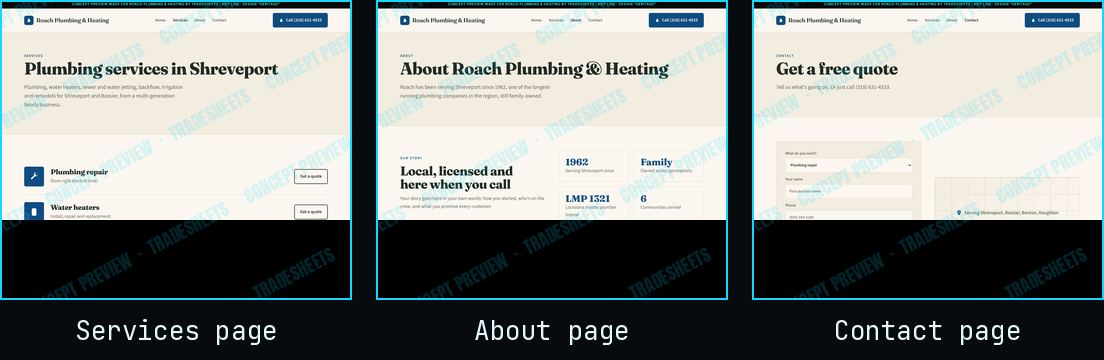
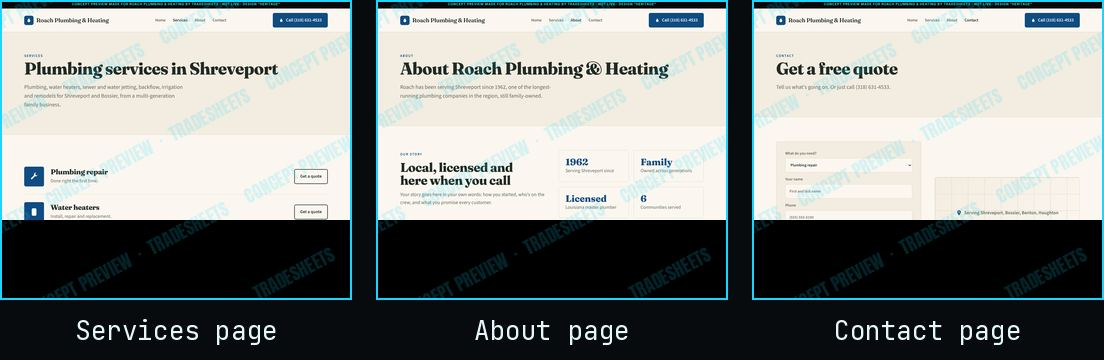
Update concept preview

Changed region(s): [[0.3388, 0.4278, 0.4928, 0.5806], [0.5236, 0.5194, 0.5543, 0.5806]]

diff --git a/roach-plumbing/index.html b/roach-plumbing/index.html
@@ -57,7 +57,7 @@ footer{background:var(--ink);color:var(--bg);padding-block:44px} footer .wrap{di
 @media(max-width:860px){.links{display:none}.hero .wrap,.grid3,.split,.reviews{grid-template-columns:1fr}.hero{padding-block:52px}.hero h1,.hero.type h1{font-size:42px}.head h2,.final h2,.pagehead h1{font-size:34px}
 .hero.block{background:var(--p)}.hero.frame .wrap{padding:28px}.facts{grid-template-columns:1fr}.svc-row{grid-template-columns:56px 1fr}.svc-row .btn{display:none}.art{max-width:260px}
 .mcall{display:flex;justify-content:center;position:fixed;left:12px;right:12px;bottom:12px;z-index:9;box-shadow:0 10px 30px rgba(0,0,0,.35)}body{padding-bottom:80px}}
-</style></head><body><div class="concept">Concept preview made for Roach Plumbing &amp; Heating by TradeSheets · not live · design "heritage"</div><header class="nav"><div class="wrap"><a class="logo" href="index.html"><i><svg width="20" height="20" viewBox="0 0 24 24" fill="currentColor" aria-hidden="true"><path d="M12 2.5C9 7 6 10.2 6 14a6 6 0 0 0 12 0c0-3.8-3-7-6-11.5z"/></svg></i>Roach Plumbing &amp; Heating</a><nav class="links"><a href="index.html" class="on">Home</a><a href="services.html" class="">Services</a><a href="about.html" class="">About</a><a href="contact.html" class="">Contact</a></nav><a class="btn" href="tel:+13186314533"><svg width="18" height="18" viewBox="0 0 24 24" fill="currentColor" aria-hidden="true"><path d="M12 2.5C9 7 6 10.2 6 14a6 6 0 0 0 12 0c0-3.8-3-7-6-11.5z"/></svg> Call (318) 631-4533</a></div></header><section class="hero frame"><div class="wrap"><div><span class="eyebrow">Since 1962 · LMP #1321</span><h1>Shreveport's family plumber <em>since 1962.</em></h1><p class="lead">Plumbing, water heaters, sewer and water jetting, backflow, irrigation and remodels for Shreveport and Bossier, from a multi-generation family business.</p><div class="chips"><span class="chip"><svg width="16" height="16" viewBox="0 0 24 24" fill="currentColor" aria-hidden="true"><path d="M12 2 4 5v6c0 5 3.4 9.4 8 11 4.6-1.6 8-6 8-11V5z"/></svg><b>Since 1962</b>&nbsp;serving Shreveport</span><span class="chip"><svg width="16" height="16" viewBox="0 0 24 24" fill="currentColor" aria-hidden="true"><circle cx="12" cy="12" r="9.5"/><path d="M12 6.5V12l4 2.5" stroke="#fff" stroke-width="2" fill="none"/></svg><b>Multi-generation</b>&nbsp;family-owned</span><span class="chip"><svg width="16" height="16" viewBox="0 0 24 24" fill="currentColor" aria-hidden="true"><path d="m12 2 3 6.6 7.2.8-5.4 4.9 1.5 7.1L12 17.8 5.7 21.4l1.5-7.1L1.8 9.4 9 8.6z"/></svg><b>Emergency</b>&nbsp;plumbers on call</span></div><div class="cta"><a class="btn" href="tel:+13186314533"><svg width="18" height="18" viewBox="0 0 24 24" fill="currentColor" aria-hidden="true"><path d="M12 2.5C9 7 6 10.2 6 14a6 6 0 0 0 12 0c0-3.8-3-7-6-11.5z"/></svg> Call (318) 631-4533</a><a class="btn ghost" href="contact.html">Free quote</a></div></div><svg viewBox="0 0 420 420" class="art" aria-hidden="true"><path d="M20 300 H170 Q210 300 210 260 V120 Q210 80 250 80 H380" stroke="#0f4c81" stroke-width="34" fill="none" stroke-linecap="round"/><path d="M60 360 H300 Q340 360 340 320 V200" stroke="#f59e0b" stroke-width="22" fill="none" stroke-linecap="round"/><circle cx="210" cy="190" r="26" fill="#f59e0b"/><circle cx="340" cy="200" r="16" fill="#0f4c81"/><path d="M380 60 v40 M372 80 h16" stroke="#0f4c81" stroke-width="10" stroke-linecap="round"/><path d="M300 110c-14 20-22 30-22 42a22 22 0 0 0 44 0c0-12-8-22-22-42z" fill="#f59e0b" opacity=".9"/></svg></div></section><div class="strip"><div class="wrap"><span><svg width="20" height="20" viewBox="0 0 24 24" fill="currentColor" aria-hidden="true"><path d="M12 2 4 5v6c0 5 3.4 9.4 8 11 4.6-1.6 8-6 8-11V5z"/></svg>Since 1962 serving Shreveport</span><span><svg width="20" height="20" viewBox="0 0 24 24" fill="currentColor" aria-hidden="true"><circle cx="12" cy="12" r="9.5"/><path d="M12 6.5V12l4 2.5" stroke="#fff" stroke-width="2" fill="none"/></svg>Multi-generation family-owned</span><span><svg width="20" height="20" viewBox="0 0 24 24" fill="currentColor" aria-hidden="true"><path d="m12 2 3 6.6 7.2.8-5.4 4.9 1.5 7.1L12 17.8 5.7 21.4l1.5-7.1L1.8 9.4 9 8.6z"/></svg>Emergency plumbers on call</span></div></div><section class="band"><div class="wrap"><div class="head"><span class="eyebrow">Services</span><h2>What we do best</h2><p>Everything Roach Plumbing &amp; Heating handles across Shreveport and nearby.</p></div><div class="grid3"><div class="card"><span class="ic"><svg width="26" height="26" viewBox="0 0 24 24" fill="currentColor" aria-hidden="true"><path d="M21 6.5a5 5 0 0 1-6.6 4.7L6 19.6 3.4 17l8.4-8.4A5 5 0 0 1 17.5 2l-3 3 1.5 3 3 1.5z"/></svg></span><h3>Plumbing repair</h3><p>Done right the first time.</p></div><div class="card"><span class="ic"><svg width="26" height="26" viewBox="0 0 24 24" fill="currentColor" aria-hidden="true"><rect x="6" y="2.5" width="12" height="19" rx="3"/><circle cx="12" cy="9" r="2.4" fill="#fff"/></svg></span><h3>Water heaters</h3><p>Install, repair and replacement.</p></div><div class="card"><span class="ic"><svg width="26" height="26" viewBox="0 0 24 24" fill="currentColor" aria-hidden="true"><circle cx="12" cy="12" r="9" fill="none" stroke="currentColor" stroke-width="2.4"/><path d="M12 6v12M6 12h12" stroke="currentColor" stroke-width="2.4"/></svg></span><h3>Sewer and water jetting</h3><p>Clear lines and restore flow.</p></div><div class="card"><span class="ic"><svg width="26" height="26" viewBox="0 0 24 24" fill="currentColor" aria-hidden="true"><path d="M8 2v6M16 2v6M5 8h14v4a7 7 0 0 1-14 0zM12 19v3"/></svg></span><h3>Backflow prevention</h3><p>Testing and installation.</p></div><div class="card"><span class="ic"><svg width="26" height="26" viewBox="0 0 24 24" fill="currentColor" aria-hidden="true"><path d="M21 6.5a5 5 0 0 1-6.6 4.7L6 19.6 3.4 17l8.4-8.4A5 5 0 0 1 17.5 2l-3 3 1.5 3 3 1.5z"/></svg></span><h3>Irrigation</h3><p>Sprinkler and irrigation plumbing.</p></div><div class="card"><span class="ic"><svg width="26" height="26" viewBox="0 0 24 24" fill="currentColor" aria-hidden="true"><path d="M3 7h9a4 4 0 0 1 4 4v10h-4V11H3z"/><path d="M14 3h7v4h-7z"/></svg></span><h3>Kitchen and bath remodels</h3><p>Plumbing for remodels.</p></div></div></div></section><section class="band alt"><div class="wrap split"><div class="head"><span class="eyebrow">Why us</span><h2>Why Shreveport calls Roach Plumbing &amp; Heating</h2><p>Plumbing, water heaters, sewer and water jetting, backflow, irrigation and remodels for Shreveport and Bossier, from a multi-generation family business.</p></div><div class="facts"><div class="fact"><b>1962</b><span>Serving Shreveport since</span></div><div class="fact"><b>Family</b><span>Owned across generations</span></div><div class="fact"><b>LMP 1321</b><span>Louisiana master plumber license</span></div><div class="fact"><b>6</b><span>Communities served</span></div></div></div></section><section class="band"><div class="wrap"><div class="head"><span class="eyebrow">Reviews</span><h2>What customers say</h2></div><div class="reviews"><div class="rev"><div class="stars"><svg width="18" height="18" viewBox="0 0 24 24" fill="#f5a623" aria-hidden="true"><path d="m12 2 3 6.6 7.2.8-5.4 4.9 1.5 7.1L12 17.8 5.7 21.4l1.5-7.1L1.8 9.4 9 8.6z"/></svg><svg width="18" height="18" viewBox="0 0 24 24" fill="#f5a623" aria-hidden="true"><path d="m12 2 3 6.6 7.2.8-5.4 4.9 1.5 7.1L12 17.8 5.7 21.4l1.5-7.1L1.8 9.4 9 8.6z"/></svg><svg width="18" height="18" viewBox="0 0 24 24" fill="#f5a623" aria-hidden="true"><path d="m12 2 3 6.6 7.2.8-5.4 4.9 1.5 7.1L12 17.8 5.7 21.4l1.5-7.1L1.8 9.4 9 8.6z"/></svg><svg width="18" height="18" viewBox="0 0 24 24" fill="#f5a623" aria-hidden="true"><path d="m12 2 3 6.6 7.2.8-5.4 4.9 1.5 7.1L12 17.8 5.7 21.4l1.5-7.1L1.8 9.4 9 8.6z"/></svg><svg width="18" height="18" viewBox="0 0 24 24" fill="#f5a623" aria-hidden="true"><path d="m12 2 3 6.6 7.2.8-5.4 4.9 1.5 7.1L12 17.8 5.7 21.4l1.5-7.1L1.8 9.4 9 8.6z"/></svg></div><p>Your best Google review goes here, with the customer's first name.</p><small>From your Google Business Profile</small></div><div class="rev"><div class="stars"><svg width="18" height="18" viewBox="0 0 24 24" fill="#f5a623" aria-hidden="true"><path d="m12 2 3 6.6 7.2.8-5.4 4.9 1.5 7.1L12 17.8 5.7 21.4l1.5-7.1L1.8 9.4 9 8.6z"/></svg><svg width="18" height="18" viewBox="0 0 24 24" fill="#f5a623" aria-hidden="true"><path d="m12 2 3 6.6 7.2.8-5.4 4.9 1.5 7.1L12 17.8 5.7 21.4l1.5-7.1L1.8 9.4 9 8.6z"/></svg><svg width="18" height="18" viewBox="0 0 24 24" fill="#f5a623" aria-hidden="true"><path d="m12 2 3 6.6 7.2.8-5.4 4.9 1.5 7.1L12 17.8 5.7 21.4l1.5-7.1L1.8 9.4 9 8.6z"/></svg><svg width="18" height="18" viewBox="0 0 24 24" fill="#f5a623" aria-hidden="true"><path d="m12 2 3 6.6 7.2.8-5.4 4.9 1.5 7.1L12 17.8 5.7 21.4l1.5-7.1L1.8 9.4 9 8.6z"/></svg><svg width="18" height="18" viewBox="0 0 24 24" fill="#f5a623" aria-hidden="true"><path d="m12 2 3 6.6 7.2.8-5.4 4.9 1.5 7.1L12 17.8 5.7 21.4l1.5-7.1L1.8 9.4 9 8.6z"/></svg></div><p>Your best Google review goes here, with the customer's first name.</p><small>From your Google Business Profile</small></div><div class="rev"><div class="stars"><svg width="18" height="18" viewBox="0 0 24 24" fill="#f5a623" aria-hidden="true"><path d="m12 2 3 6.6 7.2.8-5.4 4.9 1.5 7.1L12 17.8 5.7 21.4l1.5-7.1L1.8 9.4 9 8.6z"/></svg><svg width="18" height="18" viewBox="0 0 24 24" fill="#f5a623" aria-hidden="true"><path d="m12 2 3 6.6 7.2.8-5.4 4.9 1.5 7.1L12 17.8 5.7 21.4l1.5-7.1L1.8 9.4 9 8.6z"/></svg><svg width="18" height="18" viewBox="0 0 24 24" fill="#f5a623" aria-hidden="true"><path d="m12 2 3 6.6 7.2.8-5.4 4.9 1.5 7.1L12 17.8 5.7 21.4l1.5-7.1L1.8 9.4 9 8.6z"/></svg><svg width="18" height="18" viewBox="0 0 24 24" fill="#f5a623" aria-hidden="true"><path d="m12 2 3 6.6 7.2.8-5.4 4.9 1.5 7.1L12 17.8 5.7 21.4l1.5-7.1L1.8 9.4 9 8.6z"/></svg><svg width="18" height="18" viewBox="0 0 24 24" fill="#f5a623" aria-hidden="true"><path d="m12 2 3 6.6 7.2.8-5.4 4.9 1.5 7.1L12 17.8 5.7 21.4l1.5-7.1L1.8 9.4 9 8.6z"/></svg></div><p>Your best Google review goes here, with the customer's first name.</p><small>From your Google Business Profile</small></div></div></div></section><section class="band alt"><div class="wrap"><div class="head"><span class="eyebrow">Service area</span><h2>Proudly serving Shreveport</h2></div><div class="areas"><span><svg width="16" height="16" viewBox="0 0 24 24" fill="currentColor" aria-hidden="true"><path d="M12 2a7 7 0 0 0-7 7c0 5 7 13 7 13s7-8 7-13a7 7 0 0 0-7-7zm0 9.5A2.5 2.5 0 1 1 12 6.5a2.5 2.5 0 0 1 0 5z"/></svg>Shreveport</span><span><svg width="16" height="16" viewBox="0 0 24 24" fill="currentColor" aria-hidden="true"><path d="M12 2a7 7 0 0 0-7 7c0 5 7 13 7 13s7-8 7-13a7 7 0 0 0-7-7zm0 9.5A2.5 2.5 0 1 1 12 6.5a2.5 2.5 0 0 1 0 5z"/></svg>Bossier</span><span><svg width="16" height="16" viewBox="0 0 24 24" fill="currentColor" aria-hidden="true"><path d="M12 2a7 7 0 0 0-7 7c0 5 7 13 7 13s7-8 7-13a7 7 0 0 0-7-7zm0 9.5A2.5 2.5 0 1 1 12 6.5a2.5 2.5 0 0 1 0 5z"/></svg>Benton</span><span><svg width="16" height="16" viewBox="0 0 24 24" fill="currentColor" aria-hidden="true"><path d="M12 2a7 7 0 0 0-7 7c0 5 7 13 7 13s7-8 7-13a7 7 0 0 0-7-7zm0 9.5A2.5 2.5 0 1 1 12 6.5a2.5 2.5 0 0 1 0 5z"/></svg>Haughton</span><span><svg width="16" height="16" viewBox="0 0 24 24" fill="currentColor" aria-hidden="true"><path d="M12 2a7 7 0 0 0-7 7c0 5 7 13 7 13s7-8 7-13a7 7 0 0 0-7-7zm0 9.5A2.5 2.5 0 1 1 12 6.5a2.5 2.5 0 0 1 0 5z"/></svg>Greenwood</span><span><svg width="16" height="16" viewBox="0 0 24 24" fill="currentColor" aria-hidden="true"><path d="M12 2a7 7 0 0 0-7 7c0 5 7 13 7 13s7-8 7-13a7 7 0 0 0-7-7zm0 9.5A2.5 2.5 0 1 1 12 6.5a2.5 2.5 0 0 1 0 5z"/></svg>Stonewall</span></div></div></section><section class="band final"><div class="wrap"><h2>Plumbing emergency in Shreveport?</h2><p>Call now or request a free quote online.</p><a class="btn" href="tel:+13186314533"><svg width="18" height="18" viewBox="0 0 24 24" fill="currentColor" aria-hidden="true"><path d="M12 2.5C9 7 6 10.2 6 14a6 6 0 0 0 12 0c0-3.8-3-7-6-11.5z"/></svg> Call (318) 631-4533</a></div></section><footer><div class="wrap"><span>© Roach Plumbing &amp; Heating · Shreveport, LA</span><span>(318) 631-4533</span><span>Concept by TradeSheets</span></div></footer><a class="btn mcall" href="tel:+13186314533"><svg width="18" height="18" viewBox="0 0 24 24" fill="currentColor" aria-hidden="true"><path d="M12 2.5C9 7 6 10.2 6 14a6 6 0 0 0 12 0c0-3.8-3-7-6-11.5z"/></svg> Call (318) 631-4533</a><style>
+</style></head><body><div class="concept">Concept preview made for Roach Plumbing &amp; Heating by TradeSheets · not live · design "heritage"</div><header class="nav"><div class="wrap"><a class="logo" href="index.html"><i><svg width="20" height="20" viewBox="0 0 24 24" fill="currentColor" aria-hidden="true"><path d="M12 2.5C9 7 6 10.2 6 14a6 6 0 0 0 12 0c0-3.8-3-7-6-11.5z"/></svg></i>Roach Plumbing &amp; Heating</a><nav class="links"><a href="index.html" class="on">Home</a><a href="services.html" class="">Services</a><a href="about.html" class="">About</a><a href="contact.html" class="">Contact</a></nav><a class="btn" href="tel:+13186314533"><svg width="18" height="18" viewBox="0 0 24 24" fill="currentColor" aria-hidden="true"><path d="M12 2.5C9 7 6 10.2 6 14a6 6 0 0 0 12 0c0-3.8-3-7-6-11.5z"/></svg> Call (318) 631-4533</a></div></header><section class="hero frame"><div class="wrap"><div><span class="eyebrow">Family-owned since 1962</span><h1>Shreveport's family plumber <em>since 1962.</em></h1><p class="lead">Plumbing, water heaters, sewer and water jetting, backflow, irrigation and remodels for Shreveport and Bossier, from a multi-generation family business.</p><div class="chips"><span class="chip"><svg width="16" height="16" viewBox="0 0 24 24" fill="currentColor" aria-hidden="true"><path d="M12 2 4 5v6c0 5 3.4 9.4 8 11 4.6-1.6 8-6 8-11V5z"/></svg><b>Since 1962</b>&nbsp;serving Shreveport</span><span class="chip"><svg width="16" height="16" viewBox="0 0 24 24" fill="currentColor" aria-hidden="true"><circle cx="12" cy="12" r="9.5"/><path d="M12 6.5V12l4 2.5" stroke="#fff" stroke-width="2" fill="none"/></svg><b>Multi-generation</b>&nbsp;family-owned</span><span class="chip"><svg width="16" height="16" viewBox="0 0 24 24" fill="currentColor" aria-hidden="true"><path d="m12 2 3 6.6 7.2.8-5.4 4.9 1.5 7.1L12 17.8 5.7 21.4l1.5-7.1L1.8 9.4 9 8.6z"/></svg><b>Emergency</b>&nbsp;plumbers on call</span></div><div class="cta"><a class="btn" href="tel:+13186314533"><svg width="18" height="18" viewBox="0 0 24 24" fill="currentColor" aria-hidden="true"><path d="M12 2.5C9 7 6 10.2 6 14a6 6 0 0 0 12 0c0-3.8-3-7-6-11.5z"/></svg> Call (318) 631-4533</a><a class="btn ghost" href="contact.html">Free quote</a></div></div><svg viewBox="0 0 420 420" class="art" aria-hidden="true"><path d="M20 300 H170 Q210 300 210 260 V120 Q210 80 250 80 H380" stroke="#0f4c81" stroke-width="34" fill="none" stroke-linecap="round"/><path d="M60 360 H300 Q340 360 340 320 V200" stroke="#f59e0b" stroke-width="22" fill="none" stroke-linecap="round"/><circle cx="210" cy="190" r="26" fill="#f59e0b"/><circle cx="340" cy="200" r="16" fill="#0f4c81"/><path d="M380 60 v40 M372 80 h16" stroke="#0f4c81" stroke-width="10" stroke-linecap="round"/><path d="M300 110c-14 20-22 30-22 42a22 22 0 0 0 44 0c0-12-8-22-22-42z" fill="#f59e0b" opacity=".9"/></svg></div></section><div class="strip"><div class="wrap"><span><svg width="20" height="20" viewBox="0 0 24 24" fill="currentColor" aria-hidden="true"><path d="M12 2 4 5v6c0 5 3.4 9.4 8 11 4.6-1.6 8-6 8-11V5z"/></svg>Since 1962 serving Shreveport</span><span><svg width="20" height="20" viewBox="0 0 24 24" fill="currentColor" aria-hidden="true"><circle cx="12" cy="12" r="9.5"/><path d="M12 6.5V12l4 2.5" stroke="#fff" stroke-width="2" fill="none"/></svg>Multi-generation family-owned</span><span><svg width="20" height="20" viewBox="0 0 24 24" fill="currentColor" aria-hidden="true"><path d="m12 2 3 6.6 7.2.8-5.4 4.9 1.5 7.1L12 17.8 5.7 21.4l1.5-7.1L1.8 9.4 9 8.6z"/></svg>Emergency plumbers on call</span></div></div><section class="band"><div class="wrap"><div class="head"><span class="eyebrow">Services</span><h2>What we do best</h2><p>Everything Roach Plumbing &amp; Heating handles across Shreveport and nearby.</p></div><div class="grid3"><div class="card"><span class="ic"><svg width="26" height="26" viewBox="0 0 24 24" fill="currentColor" aria-hidden="true"><path d="M21 6.5a5 5 0 0 1-6.6 4.7L6 19.6 3.4 17l8.4-8.4A5 5 0 0 1 17.5 2l-3 3 1.5 3 3 1.5z"/></svg></span><h3>Plumbing repair</h3><p>Done right the first time.</p></div><div class="card"><span class="ic"><svg width="26" height="26" viewBox="0 0 24 24" fill="currentColor" aria-hidden="true"><rect x="6" y="2.5" width="12" height="19" rx="3"/><circle cx="12" cy="9" r="2.4" fill="#fff"/></svg></span><h3>Water heaters</h3><p>Install, repair and replacement.</p></div><div class="card"><span class="ic"><svg width="26" height="26" viewBox="0 0 24 24" fill="currentColor" aria-hidden="true"><circle cx="12" cy="12" r="9" fill="none" stroke="currentColor" stroke-width="2.4"/><path d="M12 6v12M6 12h12" stroke="currentColor" stroke-width="2.4"/></svg></span><h3>Sewer and water jetting</h3><p>Clear lines and restore flow.</p></div><div class="card"><span class="ic"><svg width="26" height="26" viewBox="0 0 24 24" fill="currentColor" aria-hidden="true"><path d="M8 2v6M16 2v6M5 8h14v4a7 7 0 0 1-14 0zM12 19v3"/></svg></span><h3>Backflow prevention</h3><p>Testing and installation.</p></div><div class="card"><span class="ic"><svg width="26" height="26" viewBox="0 0 24 24" fill="currentColor" aria-hidden="true"><path d="M21 6.5a5 5 0 0 1-6.6 4.7L6 19.6 3.4 17l8.4-8.4A5 5 0 0 1 17.5 2l-3 3 1.5 3 3 1.5z"/></svg></span><h3>Irrigation</h3><p>Sprinkler and irrigation plumbing.</p></div><div class="card"><span class="ic"><svg width="26" height="26" viewBox="0 0 24 24" fill="currentColor" aria-hidden="true"><path d="M3 7h9a4 4 0 0 1 4 4v10h-4V11H3z"/><path d="M14 3h7v4h-7z"/></svg></span><h3>Kitchen and bath remodels</h3><p>Plumbing for remodels.</p></div></div></div></section><section class="band alt"><div class="wrap split"><div class="head"><span class="eyebrow">Why us</span><h2>Why Shreveport calls Roach Plumbing &amp; Heating</h2><p>Plumbing, water heaters, sewer and water jetting, backflow, irrigation and remodels for Shreveport and Bossier, from a multi-generation family business.</p></div><div class="facts"><div class="fact"><b>1962</b><span>Serving Shreveport since</span></div><div class="fact"><b>Family</b><span>Owned across generations</span></div><div class="fact"><b>Licensed</b><span>Louisiana master plumber</span></div><div class="fact"><b>6</b><span>Communities served</span></div></div></div></section><section class="band"><div class="wrap"><div class="head"><span class="eyebrow">Reviews</span><h2>What customers say</h2></div><div class="reviews"><div class="rev"><div class="stars"><svg width="18" height="18" viewBox="0 0 24 24" fill="#f5a623" aria-hidden="true"><path d="m12 2 3 6.6 7.2.8-5.4 4.9 1.5 7.1L12 17.8 5.7 21.4l1.5-7.1L1.8 9.4 9 8.6z"/></svg><svg width="18" height="18" viewBox="0 0 24 24" fill="#f5a623" aria-hidden="true"><path d="m12 2 3 6.6 7.2.8-5.4 4.9 1.5 7.1L12 17.8 5.7 21.4l1.5-7.1L1.8 9.4 9 8.6z"/></svg><svg width="18" height="18" viewBox="0 0 24 24" fill="#f5a623" aria-hidden="true"><path d="m12 2 3 6.6 7.2.8-5.4 4.9 1.5 7.1L12 17.8 5.7 21.4l1.5-7.1L1.8 9.4 9 8.6z"/></svg><svg width="18" height="18" viewBox="0 0 24 24" fill="#f5a623" aria-hidden="true"><path d="m12 2 3 6.6 7.2.8-5.4 4.9 1.5 7.1L12 17.8 5.7 21.4l1.5-7.1L1.8 9.4 9 8.6z"/></svg><svg width="18" height="18" viewBox="0 0 24 24" fill="#f5a623" aria-hidden="true"><path d="m12 2 3 6.6 7.2.8-5.4 4.9 1.5 7.1L12 17.8 5.7 21.4l1.5-7.1L1.8 9.4 9 8.6z"/></svg></div><p>Your best Google review goes here, with the customer's first name.</p><small>From your Google Business Profile</small></div><div class="rev"><div class="stars"><svg width="18" height="18" viewBox="0 0 24 24" fill="#f5a623" aria-hidden="true"><path d="m12 2 3 6.6 7.2.8-5.4 4.9 1.5 7.1L12 17.8 5.7 21.4l1.5-7.1L1.8 9.4 9 8.6z"/></svg><svg width="18" height="18" viewBox="0 0 24 24" fill="#f5a623" aria-hidden="true"><path d="m12 2 3 6.6 7.2.8-5.4 4.9 1.5 7.1L12 17.8 5.7 21.4l1.5-7.1L1.8 9.4 9 8.6z"/></svg><svg width="18" height="18" viewBox="0 0 24 24" fill="#f5a623" aria-hidden="true"><path d="m12 2 3 6.6 7.2.8-5.4 4.9 1.5 7.1L12 17.8 5.7 21.4l1.5-7.1L1.8 9.4 9 8.6z"/></svg><svg width="18" height="18" viewBox="0 0 24 24" fill="#f5a623" aria-hidden="true"><path d="m12 2 3 6.6 7.2.8-5.4 4.9 1.5 7.1L12 17.8 5.7 21.4l1.5-7.1L1.8 9.4 9 8.6z"/></svg><svg width="18" height="18" viewBox="0 0 24 24" fill="#f5a623" aria-hidden="true"><path d="m12 2 3 6.6 7.2.8-5.4 4.9 1.5 7.1L12 17.8 5.7 21.4l1.5-7.1L1.8 9.4 9 8.6z"/></svg></div><p>Your best Google review goes here, with the customer's first name.</p><small>From your Google Business Profile</small></div><div class="rev"><div class="stars"><svg width="18" height="18" viewBox="0 0 24 24" fill="#f5a623" aria-hidden="true"><path d="m12 2 3 6.6 7.2.8-5.4 4.9 1.5 7.1L12 17.8 5.7 21.4l1.5-7.1L1.8 9.4 9 8.6z"/></svg><svg width="18" height="18" viewBox="0 0 24 24" fill="#f5a623" aria-hidden="true"><path d="m12 2 3 6.6 7.2.8-5.4 4.9 1.5 7.1L12 17.8 5.7 21.4l1.5-7.1L1.8 9.4 9 8.6z"/></svg><svg width="18" height="18" viewBox="0 0 24 24" fill="#f5a623" aria-hidden="true"><path d="m12 2 3 6.6 7.2.8-5.4 4.9 1.5 7.1L12 17.8 5.7 21.4l1.5-7.1L1.8 9.4 9 8.6z"/></svg><svg width="18" height="18" viewBox="0 0 24 24" fill="#f5a623" aria-hidden="true"><path d="m12 2 3 6.6 7.2.8-5.4 4.9 1.5 7.1L12 17.8 5.7 21.4l1.5-7.1L1.8 9.4 9 8.6z"/></svg><svg width="18" height="18" viewBox="0 0 24 24" fill="#f5a623" aria-hidden="true"><path d="m12 2 3 6.6 7.2.8-5.4 4.9 1.5 7.1L12 17.8 5.7 21.4l1.5-7.1L1.8 9.4 9 8.6z"/></svg></div><p>Your best Google review goes here, with the customer's first name.</p><small>From your Google Business Profile</small></div></div></div></section><section class="band alt"><div class="wrap"><div class="head"><span class="eyebrow">Service area</span><h2>Proudly serving Shreveport</h2></div><div class="areas"><span><svg width="16" height="16" viewBox="0 0 24 24" fill="currentColor" aria-hidden="true"><path d="M12 2a7 7 0 0 0-7 7c0 5 7 13 7 13s7-8 7-13a7 7 0 0 0-7-7zm0 9.5A2.5 2.5 0 1 1 12 6.5a2.5 2.5 0 0 1 0 5z"/></svg>Shreveport</span><span><svg width="16" height="16" viewBox="0 0 24 24" fill="currentColor" aria-hidden="true"><path d="M12 2a7 7 0 0 0-7 7c0 5 7 13 7 13s7-8 7-13a7 7 0 0 0-7-7zm0 9.5A2.5 2.5 0 1 1 12 6.5a2.5 2.5 0 0 1 0 5z"/></svg>Bossier</span><span><svg width="16" height="16" viewBox="0 0 24 24" fill="currentColor" aria-hidden="true"><path d="M12 2a7 7 0 0 0-7 7c0 5 7 13 7 13s7-8 7-13a7 7 0 0 0-7-7zm0 9.5A2.5 2.5 0 1 1 12 6.5a2.5 2.5 0 0 1 0 5z"/></svg>Benton</span><span><svg width="16" height="16" viewBox="0 0 24 24" fill="currentColor" aria-hidden="true"><path d="M12 2a7 7 0 0 0-7 7c0 5 7 13 7 13s7-8 7-13a7 7 0 0 0-7-7zm0 9.5A2.5 2.5 0 1 1 12 6.5a2.5 2.5 0 0 1 0 5z"/></svg>Haughton</span><span><svg width="16" height="16" viewBox="0 0 24 24" fill="currentColor" aria-hidden="true"><path d="M12 2a7 7 0 0 0-7 7c0 5 7 13 7 13s7-8 7-13a7 7 0 0 0-7-7zm0 9.5A2.5 2.5 0 1 1 12 6.5a2.5 2.5 0 0 1 0 5z"/></svg>Greenwood</span><span><svg width="16" height="16" viewBox="0 0 24 24" fill="currentColor" aria-hidden="true"><path d="M12 2a7 7 0 0 0-7 7c0 5 7 13 7 13s7-8 7-13a7 7 0 0 0-7-7zm0 9.5A2.5 2.5 0 1 1 12 6.5a2.5 2.5 0 0 1 0 5z"/></svg>Stonewall</span></div></div></section><section class="band final"><div class="wrap"><h2>Plumbing emergency in Shreveport?</h2><p>Call now or request a free quote online.</p><a class="btn" href="tel:+13186314533"><svg width="18" height="18" viewBox="0 0 24 24" fill="currentColor" aria-hidden="true"><path d="M12 2.5C9 7 6 10.2 6 14a6 6 0 0 0 12 0c0-3.8-3-7-6-11.5z"/></svg> Call (318) 631-4533</a></div></section><footer><div class="wrap"><span>© Roach Plumbing &amp; Heating · Shreveport, LA</span><span>(318) 631-4533</span><span>Concept by TradeSheets</span></div></footer><a class="btn mcall" href="tel:+13186314533"><svg width="18" height="18" viewBox="0 0 24 24" fill="currentColor" aria-hidden="true"><path d="M12 2.5C9 7 6 10.2 6 14a6 6 0 0 0 12 0c0-3.8-3-7-6-11.5z"/></svg> Call (318) 631-4533</a><style>
 .ts-wm{position:fixed;inset:0;pointer-events:none;z-index:2147483647;overflow:hidden}
 .ts-wm div{position:absolute;inset:-50%;transform:rotate(-24deg);display:flex;flex-wrap:wrap;align-content:center;gap:90px 120px;
 font:800 34px/1 system-ui,sans-serif;letter-spacing:.12em;color:rgba(0,180,210,.13);text-transform:uppercase;white-space:nowrap}

diff --git a/roach-plumbing/about.html b/roach-plumbing/about.html
@@ -57,7 +57,7 @@ footer{background:var(--ink);color:var(--bg);padding-block:44px} footer .wrap{di
 @media(max-width:860px){.links{display:none}.hero .wrap,.grid3,.split,.reviews{grid-template-columns:1fr}.hero{padding-block:52px}.hero h1,.hero.type h1{font-size:42px}.head h2,.final h2,.pagehead h1{font-size:34px}
 .hero.block{background:var(--p)}.hero.frame .wrap{padding:28px}.facts{grid-template-columns:1fr}.svc-row{grid-template-columns:56px 1fr}.svc-row .btn{display:none}.art{max-width:260px}
 .mcall{display:flex;justify-content:center;position:fixed;left:12px;right:12px;bottom:12px;z-index:9;box-shadow:0 10px 30px rgba(0,0,0,.35)}body{padding-bottom:80px}}
-</style></head><body><div class="concept">Concept preview made for Roach Plumbing &amp; Heating by TradeSheets · not live · design "heritage"</div><header class="nav"><div class="wrap"><a class="logo" href="index.html"><i><svg width="20" height="20" viewBox="0 0 24 24" fill="currentColor" aria-hidden="true"><path d="M12 2.5C9 7 6 10.2 6 14a6 6 0 0 0 12 0c0-3.8-3-7-6-11.5z"/></svg></i>Roach Plumbing &amp; Heating</a><nav class="links"><a href="index.html" class="">Home</a><a href="services.html" class="">Services</a><a href="about.html" class="on">About</a><a href="contact.html" class="">Contact</a></nav><a class="btn" href="tel:+13186314533"><svg width="18" height="18" viewBox="0 0 24 24" fill="currentColor" aria-hidden="true"><path d="M12 2.5C9 7 6 10.2 6 14a6 6 0 0 0 12 0c0-3.8-3-7-6-11.5z"/></svg> Call (318) 631-4533</a></div></header><section class="pagehead"><div class="wrap"><span class="eyebrow">About</span><h1>About Roach Plumbing &amp; Heating</h1><p>Roach has been serving Shreveport since 1962, one of the longest-running plumbing companies in the region, still family-owned.</p></div></section><section class="band"><div class="wrap split"><div class="head"><span class="eyebrow">Our story</span><h2>Local, licensed and here when you call</h2><p>Your story goes here in your own words: how you started, who's on the crew, and what you promise every customer.</p></div><div class="facts"><div class="fact"><b>1962</b><span>Serving Shreveport since</span></div><div class="fact"><b>Family</b><span>Owned across generations</span></div><div class="fact"><b>LMP 1321</b><span>Louisiana master plumber license</span></div><div class="fact"><b>6</b><span>Communities served</span></div></div></div></section><section class="band alt"><div class="wrap"><div class="head"><span class="eyebrow">Reviews</span><h2>Trusted by your neighbors</h2></div><div class="reviews"><div class="rev"><div class="stars"><svg width="18" height="18" viewBox="0 0 24 24" fill="#f5a623" aria-hidden="true"><path d="m12 2 3 6.6 7.2.8-5.4 4.9 1.5 7.1L12 17.8 5.7 21.4l1.5-7.1L1.8 9.4 9 8.6z"/></svg><svg width="18" height="18" viewBox="0 0 24 24" fill="#f5a623" aria-hidden="true"><path d="m12 2 3 6.6 7.2.8-5.4 4.9 1.5 7.1L12 17.8 5.7 21.4l1.5-7.1L1.8 9.4 9 8.6z"/></svg><svg width="18" height="18" viewBox="0 0 24 24" fill="#f5a623" aria-hidden="true"><path d="m12 2 3 6.6 7.2.8-5.4 4.9 1.5 7.1L12 17.8 5.7 21.4l1.5-7.1L1.8 9.4 9 8.6z"/></svg><svg width="18" height="18" viewBox="0 0 24 24" fill="#f5a623" aria-hidden="true"><path d="m12 2 3 6.6 7.2.8-5.4 4.9 1.5 7.1L12 17.8 5.7 21.4l1.5-7.1L1.8 9.4 9 8.6z"/></svg><svg width="18" height="18" viewBox="0 0 24 24" fill="#f5a623" aria-hidden="true"><path d="m12 2 3 6.6 7.2.8-5.4 4.9 1.5 7.1L12 17.8 5.7 21.4l1.5-7.1L1.8 9.4 9 8.6z"/></svg></div><p>Your best Google review goes here, with the customer's first name.</p><small>From your Google Business Profile</small></div><div class="rev"><div class="stars"><svg width="18" height="18" viewBox="0 0 24 24" fill="#f5a623" aria-hidden="true"><path d="m12 2 3 6.6 7.2.8-5.4 4.9 1.5 7.1L12 17.8 5.7 21.4l1.5-7.1L1.8 9.4 9 8.6z"/></svg><svg width="18" height="18" viewBox="0 0 24 24" fill="#f5a623" aria-hidden="true"><path d="m12 2 3 6.6 7.2.8-5.4 4.9 1.5 7.1L12 17.8 5.7 21.4l1.5-7.1L1.8 9.4 9 8.6z"/></svg><svg width="18" height="18" viewBox="0 0 24 24" fill="#f5a623" aria-hidden="true"><path d="m12 2 3 6.6 7.2.8-5.4 4.9 1.5 7.1L12 17.8 5.7 21.4l1.5-7.1L1.8 9.4 9 8.6z"/></svg><svg width="18" height="18" viewBox="0 0 24 24" fill="#f5a623" aria-hidden="true"><path d="m12 2 3 6.6 7.2.8-5.4 4.9 1.5 7.1L12 17.8 5.7 21.4l1.5-7.1L1.8 9.4 9 8.6z"/></svg><svg width="18" height="18" viewBox="0 0 24 24" fill="#f5a623" aria-hidden="true"><path d="m12 2 3 6.6 7.2.8-5.4 4.9 1.5 7.1L12 17.8 5.7 21.4l1.5-7.1L1.8 9.4 9 8.6z"/></svg></div><p>Your best Google review goes here, with the customer's first name.</p><small>From your Google Business Profile</small></div><div class="rev"><div class="stars"><svg width="18" height="18" viewBox="0 0 24 24" fill="#f5a623" aria-hidden="true"><path d="m12 2 3 6.6 7.2.8-5.4 4.9 1.5 7.1L12 17.8 5.7 21.4l1.5-7.1L1.8 9.4 9 8.6z"/></svg><svg width="18" height="18" viewBox="0 0 24 24" fill="#f5a623" aria-hidden="true"><path d="m12 2 3 6.6 7.2.8-5.4 4.9 1.5 7.1L12 17.8 5.7 21.4l1.5-7.1L1.8 9.4 9 8.6z"/></svg><svg width="18" height="18" viewBox="0 0 24 24" fill="#f5a623" aria-hidden="true"><path d="m12 2 3 6.6 7.2.8-5.4 4.9 1.5 7.1L12 17.8 5.7 21.4l1.5-7.1L1.8 9.4 9 8.6z"/></svg><svg width="18" height="18" viewBox="0 0 24 24" fill="#f5a623" aria-hidden="true"><path d="m12 2 3 6.6 7.2.8-5.4 4.9 1.5 7.1L12 17.8 5.7 21.4l1.5-7.1L1.8 9.4 9 8.6z"/></svg><svg width="18" height="18" viewBox="0 0 24 24" fill="#f5a623" aria-hidden="true"><path d="m12 2 3 6.6 7.2.8-5.4 4.9 1.5 7.1L12 17.8 5.7 21.4l1.5-7.1L1.8 9.4 9 8.6z"/></svg></div><p>Your best Google review goes here, with the customer's first name.</p><small>From your Google Business Profile</small></div></div></div></section><footer><div class="wrap"><span>© Roach Plumbing &amp; Heating · Shreveport, LA</span><span>(318) 631-4533</span><span>Concept by TradeSheets</span></div></footer><a class="btn mcall" href="tel:+13186314533"><svg width="18" height="18" viewBox="0 0 24 24" fill="currentColor" aria-hidden="true"><path d="M12 2.5C9 7 6 10.2 6 14a6 6 0 0 0 12 0c0-3.8-3-7-6-11.5z"/></svg> Call (318) 631-4533</a><style>
+</style></head><body><div class="concept">Concept preview made for Roach Plumbing &amp; Heating by TradeSheets · not live · design "heritage"</div><header class="nav"><div class="wrap"><a class="logo" href="index.html"><i><svg width="20" height="20" viewBox="0 0 24 24" fill="currentColor" aria-hidden="true"><path d="M12 2.5C9 7 6 10.2 6 14a6 6 0 0 0 12 0c0-3.8-3-7-6-11.5z"/></svg></i>Roach Plumbing &amp; Heating</a><nav class="links"><a href="index.html" class="">Home</a><a href="services.html" class="">Services</a><a href="about.html" class="on">About</a><a href="contact.html" class="">Contact</a></nav><a class="btn" href="tel:+13186314533"><svg width="18" height="18" viewBox="0 0 24 24" fill="currentColor" aria-hidden="true"><path d="M12 2.5C9 7 6 10.2 6 14a6 6 0 0 0 12 0c0-3.8-3-7-6-11.5z"/></svg> Call (318) 631-4533</a></div></header><section class="pagehead"><div class="wrap"><span class="eyebrow">About</span><h1>About Roach Plumbing &amp; Heating</h1><p>Roach has been serving Shreveport since 1962, one of the longest-running plumbing companies in the region, still family-owned.</p></div></section><section class="band"><div class="wrap split"><div class="head"><span class="eyebrow">Our story</span><h2>Local, licensed and here when you call</h2><p>Your story goes here in your own words: how you started, who's on the crew, and what you promise every customer.</p></div><div class="facts"><div class="fact"><b>1962</b><span>Serving Shreveport since</span></div><div class="fact"><b>Family</b><span>Owned across generations</span></div><div class="fact"><b>Licensed</b><span>Louisiana master plumber</span></div><div class="fact"><b>6</b><span>Communities served</span></div></div></div></section><section class="band alt"><div class="wrap"><div class="head"><span class="eyebrow">Reviews</span><h2>Trusted by your neighbors</h2></div><div class="reviews"><div class="rev"><div class="stars"><svg width="18" height="18" viewBox="0 0 24 24" fill="#f5a623" aria-hidden="true"><path d="m12 2 3 6.6 7.2.8-5.4 4.9 1.5 7.1L12 17.8 5.7 21.4l1.5-7.1L1.8 9.4 9 8.6z"/></svg><svg width="18" height="18" viewBox="0 0 24 24" fill="#f5a623" aria-hidden="true"><path d="m12 2 3 6.6 7.2.8-5.4 4.9 1.5 7.1L12 17.8 5.7 21.4l1.5-7.1L1.8 9.4 9 8.6z"/></svg><svg width="18" height="18" viewBox="0 0 24 24" fill="#f5a623" aria-hidden="true"><path d="m12 2 3 6.6 7.2.8-5.4 4.9 1.5 7.1L12 17.8 5.7 21.4l1.5-7.1L1.8 9.4 9 8.6z"/></svg><svg width="18" height="18" viewBox="0 0 24 24" fill="#f5a623" aria-hidden="true"><path d="m12 2 3 6.6 7.2.8-5.4 4.9 1.5 7.1L12 17.8 5.7 21.4l1.5-7.1L1.8 9.4 9 8.6z"/></svg><svg width="18" height="18" viewBox="0 0 24 24" fill="#f5a623" aria-hidden="true"><path d="m12 2 3 6.6 7.2.8-5.4 4.9 1.5 7.1L12 17.8 5.7 21.4l1.5-7.1L1.8 9.4 9 8.6z"/></svg></div><p>Your best Google review goes here, with the customer's first name.</p><small>From your Google Business Profile</small></div><div class="rev"><div class="stars"><svg width="18" height="18" viewBox="0 0 24 24" fill="#f5a623" aria-hidden="true"><path d="m12 2 3 6.6 7.2.8-5.4 4.9 1.5 7.1L12 17.8 5.7 21.4l1.5-7.1L1.8 9.4 9 8.6z"/></svg><svg width="18" height="18" viewBox="0 0 24 24" fill="#f5a623" aria-hidden="true"><path d="m12 2 3 6.6 7.2.8-5.4 4.9 1.5 7.1L12 17.8 5.7 21.4l1.5-7.1L1.8 9.4 9 8.6z"/></svg><svg width="18" height="18" viewBox="0 0 24 24" fill="#f5a623" aria-hidden="true"><path d="m12 2 3 6.6 7.2.8-5.4 4.9 1.5 7.1L12 17.8 5.7 21.4l1.5-7.1L1.8 9.4 9 8.6z"/></svg><svg width="18" height="18" viewBox="0 0 24 24" fill="#f5a623" aria-hidden="true"><path d="m12 2 3 6.6 7.2.8-5.4 4.9 1.5 7.1L12 17.8 5.7 21.4l1.5-7.1L1.8 9.4 9 8.6z"/></svg><svg width="18" height="18" viewBox="0 0 24 24" fill="#f5a623" aria-hidden="true"><path d="m12 2 3 6.6 7.2.8-5.4 4.9 1.5 7.1L12 17.8 5.7 21.4l1.5-7.1L1.8 9.4 9 8.6z"/></svg></div><p>Your best Google review goes here, with the customer's first name.</p><small>From your Google Business Profile</small></div><div class="rev"><div class="stars"><svg width="18" height="18" viewBox="0 0 24 24" fill="#f5a623" aria-hidden="true"><path d="m12 2 3 6.6 7.2.8-5.4 4.9 1.5 7.1L12 17.8 5.7 21.4l1.5-7.1L1.8 9.4 9 8.6z"/></svg><svg width="18" height="18" viewBox="0 0 24 24" fill="#f5a623" aria-hidden="true"><path d="m12 2 3 6.6 7.2.8-5.4 4.9 1.5 7.1L12 17.8 5.7 21.4l1.5-7.1L1.8 9.4 9 8.6z"/></svg><svg width="18" height="18" viewBox="0 0 24 24" fill="#f5a623" aria-hidden="true"><path d="m12 2 3 6.6 7.2.8-5.4 4.9 1.5 7.1L12 17.8 5.7 21.4l1.5-7.1L1.8 9.4 9 8.6z"/></svg><svg width="18" height="18" viewBox="0 0 24 24" fill="#f5a623" aria-hidden="true"><path d="m12 2 3 6.6 7.2.8-5.4 4.9 1.5 7.1L12 17.8 5.7 21.4l1.5-7.1L1.8 9.4 9 8.6z"/></svg><svg width="18" height="18" viewBox="0 0 24 24" fill="#f5a623" aria-hidden="true"><path d="m12 2 3 6.6 7.2.8-5.4 4.9 1.5 7.1L12 17.8 5.7 21.4l1.5-7.1L1.8 9.4 9 8.6z"/></svg></div><p>Your best Google review goes here, with the customer's first name.</p><small>From your Google Business Profile</small></div></div></div></section><footer><div class="wrap"><span>© Roach Plumbing &amp; Heating · Shreveport, LA</span><span>(318) 631-4533</span><span>Concept by TradeSheets</span></div></footer><a class="btn mcall" href="tel:+13186314533"><svg width="18" height="18" viewBox="0 0 24 24" fill="currentColor" aria-hidden="true"><path d="M12 2.5C9 7 6 10.2 6 14a6 6 0 0 0 12 0c0-3.8-3-7-6-11.5z"/></svg> Call (318) 631-4533</a><style>
 .ts-wm{position:fixed;inset:0;pointer-events:none;z-index:2147483647;overflow:hidden}
 .ts-wm div{position:absolute;inset:-50%;transform:rotate(-24deg);display:flex;flex-wrap:wrap;align-content:center;gap:90px 120px;
 font:800 34px/1 system-ui,sans-serif;letter-spacing:.12em;color:rgba(0,180,210,.13);text-transform:uppercase;white-space:nowrap}
